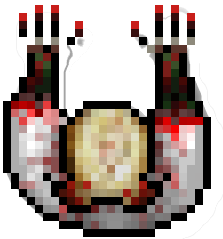
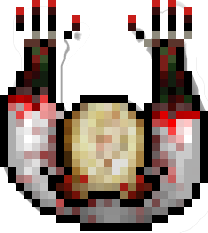
Hitting the zombies now changes their look

diff --git a/nativeclient/nativeclient/source/component/gameplay/lifecontroller.cpp b/nativeclient/nativeclient/source/component/gameplay/lifecontroller.cpp
@@ -5,6 +5,9 @@
 
 #include "component/shape.h"
 #include "component/rigidbody.h"
+#include "component/SquareShape.h"
+#include "component/texturemanager.h"
+#include "component/GLRender.h"
 
 namespace Natorium
 {
@@ -12,11 +15,14 @@ namespace Natorium
 LifeController::LifeController()
 	: m_life(10)
 	, m_currentLife(0)
+	, m_smallDamageTexture(0)
+	, m_BigDamageTexture(0)
 {
 }
 
 LifeController::~LifeController()
 {
+	
 }
 
 void LifeController::OnInit()
@@ -36,10 +42,22 @@ void LifeController::TakeDamage(natS32 _damage)
 {
 	m_currentLife -= _damage;
 
-	Shape* shape = GetEntity()->GetComponent<RigidBody>()->GetShape();
-	glm::vec4 color = shape->GetColor();
-	//color.r = 1.f / (2 - natF32(m_currentLife) / natF32(m_life));
-	shape->SetColor(color);
+	if(m_currentLife < 2*m_life/3){
+		ref_t textureRef = m_smallDamageTexture;
+		if(m_currentLife < m_life/3){
+			textureRef = m_BigDamageTexture;
+		}
+
+		TextureManager* texturemanager = GetEntity()->GetKernel()->GetLayer(Layer::Layer_0)->GetRootEntity()->GetComponent<TextureManager>();
+		GLuint texture_id = texturemanager->Get(textureRef);
+
+		GLRender* glrender = GetEntity()->GetComponent<GLRender>();
+		glrender->SetTexture(texture_id);
+
+	}
+
+	
+	
 }
 
 

diff --git a/nativeclient/nativeclient/source/component/scenemanager.cpp b/nativeclient/nativeclient/source/component/scenemanager.cpp
@@ -34,6 +34,9 @@ void SceneManager::OnInit()
 	texturemanager->Load("/data/idle-0.png");
 	texturemanager->Load("/data/grass-texture-2.jpg");
 	texturemanager->Load("/data/zombie.png");
+	texturemanager->Load("/data/zombie2.png");
+	texturemanager->Load("/data/zombie3.png");
+
 
 	FontManager* fontmanager = GetEntity()->GetKernel()->GetLayer(Layer::Layer_0)->GetRootEntity()->GetComponent<FontManager>();
 	fontmanager->Load("/data/font/EBGaramond-Regular.ttf", 50);

diff --git a/nativeclient/nativeclient/include/component/gameplay/lifecontroller.h b/nativeclient/nativeclient/include/component/gameplay/lifecontroller.h
@@ -30,6 +30,8 @@ public:
 
 public:
 	natS32			m_life;
+	ref_t			m_smallDamageTexture;
+	ref_t			m_BigDamageTexture;
 
 private:
 	natS32			m_currentLife;
